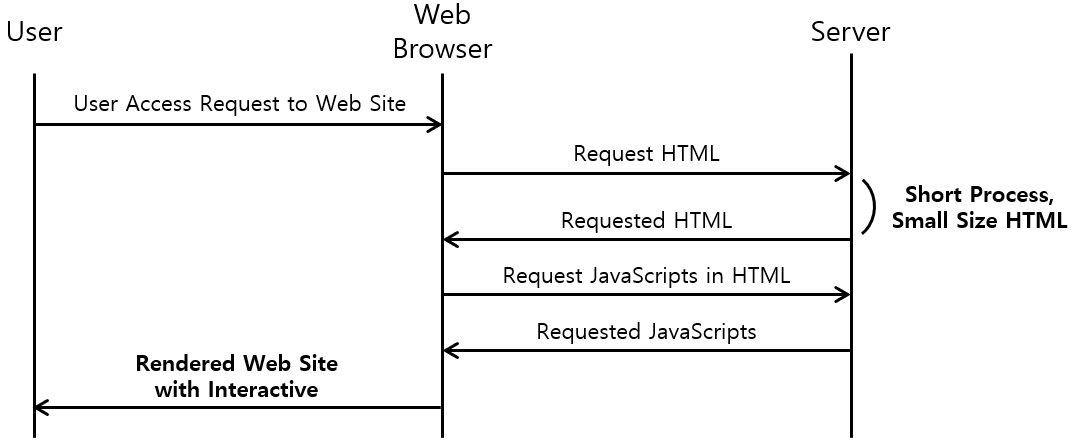
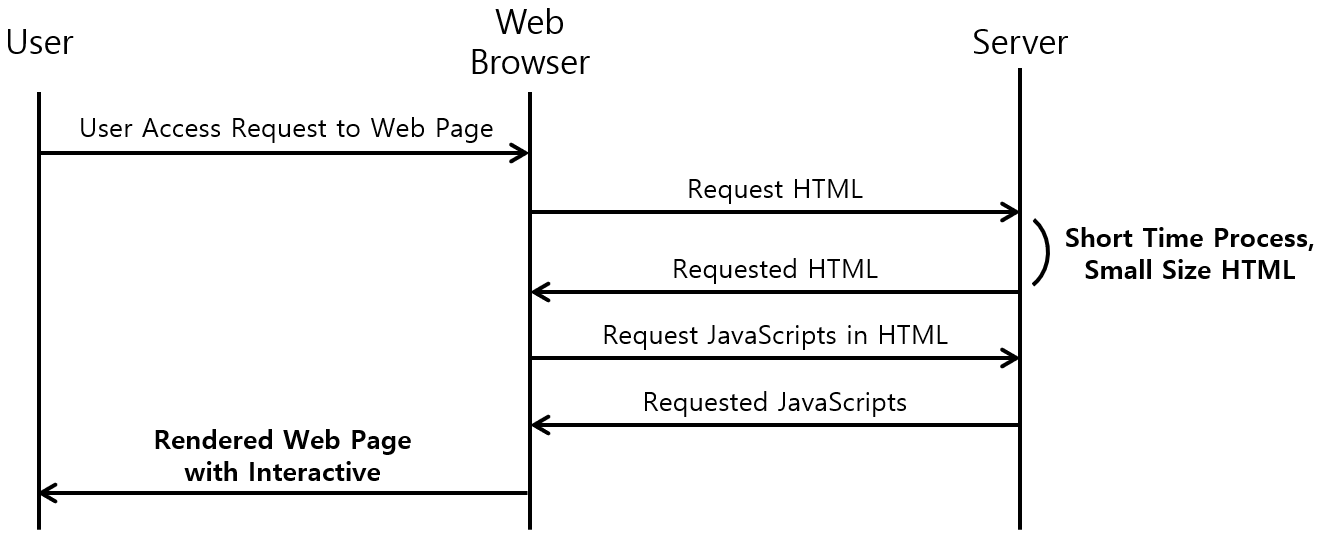
Update

diff --git a/_docs/theory_analysis/Web_CSR_SSR.md b/_docs/theory_analysis/Web_CSR_SSR.md
@@ -1,5 +1,5 @@
 ---
-title: Web  Client Side Rendering, Server Side Rendering
+title: Web Client Side Rendering, Server Side Rendering
 category: Theory, Analysis
 date: 2022-01-05T12:00:00Z
 lastmod: 2022-01-05T12:00:00Z
@@ -13,11 +13,28 @@ Web의 Client Side Rendering 기법과 Server Side Rendering 기법을 분석한
 
 ![[그림 1] CSR]({{site.baseurl}}/images/theory_analysis/Web_CSR_SSR/CSR.PNG){: width="700px"}
 
+CSR (Client Side Rendering) 기법은 Web Page Rendering을 Client인 Web Browser에서 모두 수행하는 기법을 의미한다. 여기서 Rendering을 수행한다 의미는 JavaScript를 수행하여 불완전한 형태의 HTML을 형태를 갖춘 HTML(DOM Tree)로 구성하는 과정을 의미한다. Web Browser는 형태를 갖춘 Web Page의 HTML을 얻을 수 있어야 Web Page를 UI로 나타낼 수 있다. Rendering 과정에는 필요에 따라서 외부의 Server로부터 Data를 가져오는 과정도 포함된다.
+
+[그림 1]은 CSR 과정을 나타내고 있다. User가 특정 Web Page를 Web Browser를 통해서 Server에게 요청하면, Server는 Web Page의 HTML과 HTML에 내장된 JavaScript를 모두 Web Browser에게 전달한다. 이후 Web Browser는 Rendering을 수행하여 HTML을 구성하고, Web Page의 UI를 User에게 노출시킨다.
+
 ### 2. Server Side Rendering (SSR)
 
-![[그림 1] SSR]({{site.baseurl}}/images/theory_analysis/Web_CSR_SSR/SSR.PNG){: width="700px"}
+![[그림 2] SSR]({{site.baseurl}}/images/theory_analysis/Web_CSR_SSR/SSR.PNG){: width="700px"}
+
+SSR (Server Side Rendering) 기법은 Web Page Rendering을 Server에서 수행하는 기법을 의미한다. [그림 2]는 SSR을 나타내고 있다. User가 특정 Web Page를 Web Browser를 통해서 Server에게 요청하면, Server는 Server 내부적으로 Rendering을 수행하여 형태를 갖춘 HTML을 Web Browser에게 전송한다. 
+
+형태를 갖춘 HTML을 수신한 Web Browser는 먼저 User에게 Web Page의 UI를 노출한다. 이때 User는 Web Page의 UI를 볼수만 있을뿐 Web Page를 조작할 수는 없다. 이후에 Web Browser는 Web Page에 필요한 추가적인 JavaScript들을 받은 다음 User가 완전히 Web Page를 이용할 수 있도록 만든다.
+
+### 3. CSR vs SSR
+
+CSR 기법에서 Server는 가지고 있는 HTML과 JavaScript를 Web Browser에게 전달만 해주면 되기 때문에 Server는 부하 없이 빠르게 응답이 가능하다. 또한 Rendering 되기전의 불완전한 HTML을 전송하는 방식이기 때문에, 전송하는 HTML의 크기도 일반적으로 Rendering된 HTML을 전송하는 SSR에 비해서 작은 편이다. 따라서 TTI (Time To Interactive) 측면에서는 일반적으로 CSR이 SSR보다 유리하다.
+
+반면 SSR 기법에서는 Web Browser는 Rendering을 통해서 형태를 갖춘 HTML의 수신이 완료되면 추가적인 동작이 필요없이 바로 Web UI를 User에게 노출시킬 수 있기 때문에 FP (First Paint) 측면에는 SSR 기법이 CSR 기법보다 유리하다.
+
+Server의 부하는 Rendering을 Server가 수행하는 SSR가 CSR에 비해서 높은편이다. SEO (Search Engine Optimization) 관점에서는 완전한 형태의 HTML을 전송해주는 SSR이 CSR에 비해서 유리하다. CSR 대신 SSR을 선택하는 가장 큰 이유는 일반적으로 FP (First Paint) 및 SEO의 이점을 가져 가기 위해서이다.
 
 ### 3. 참조
 
+* [https://developers.google.com/web/updates/2019/02/rendering-on-the-web?hl=ko](https://developers.google.com/web/updates/2019/02/rendering-on-the-web?hl=ko)
 * [https://medium.com/walmartglobaltech/the-benefits-of-server-side-rendering-over-client-side-rendering-5d07ff2cefe8](https://medium.com/walmartglobaltech/the-benefits-of-server-side-rendering-over-client-side-rendering-5d07ff2cefe8)
 * [https://velog.io/@gkrba1234/SSR%EA%B3%BC-CSR%EC%97%90-%EB%8C%80%ED%95%B4-%EC%95%8C%EC%95%84%EB%B3%B4%EC%9E%90](https://velog.io/@gkrba1234/SSR%EA%B3%BC-CSR%EC%97%90-%EB%8C%80%ED%95%B4-%EC%95%8C%EC%95%84%EB%B3%B4%EC%9E%90)
